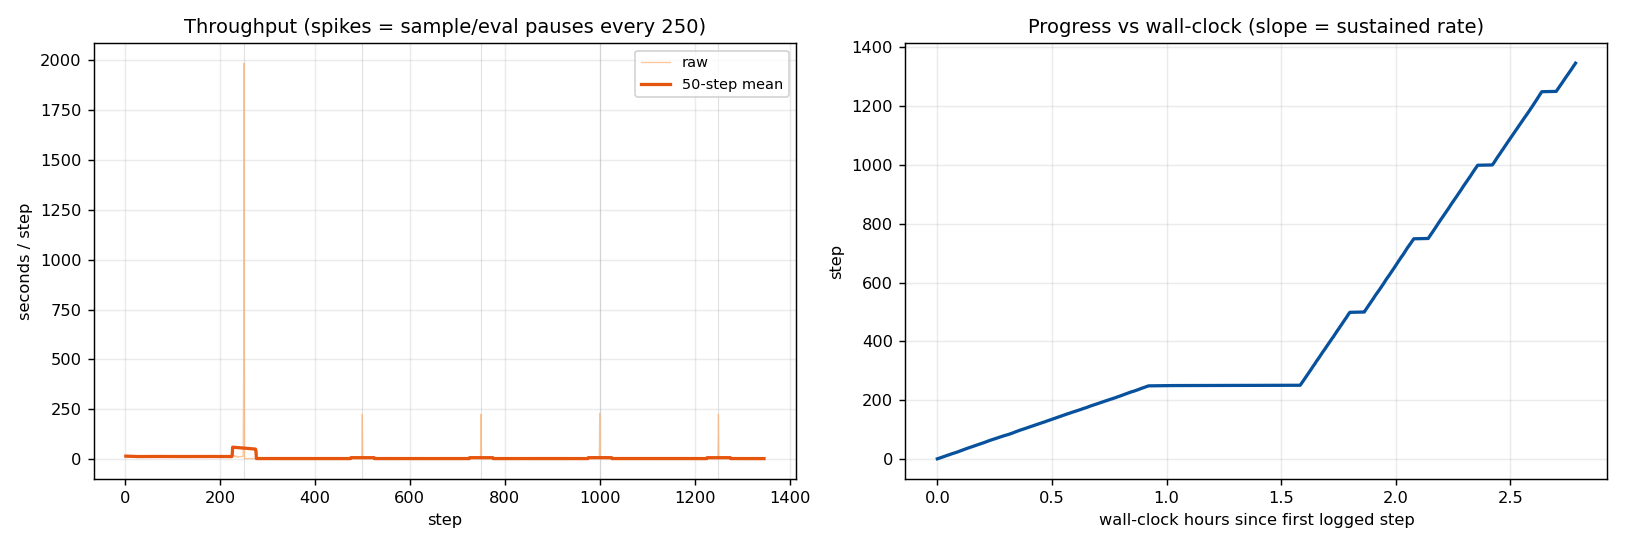
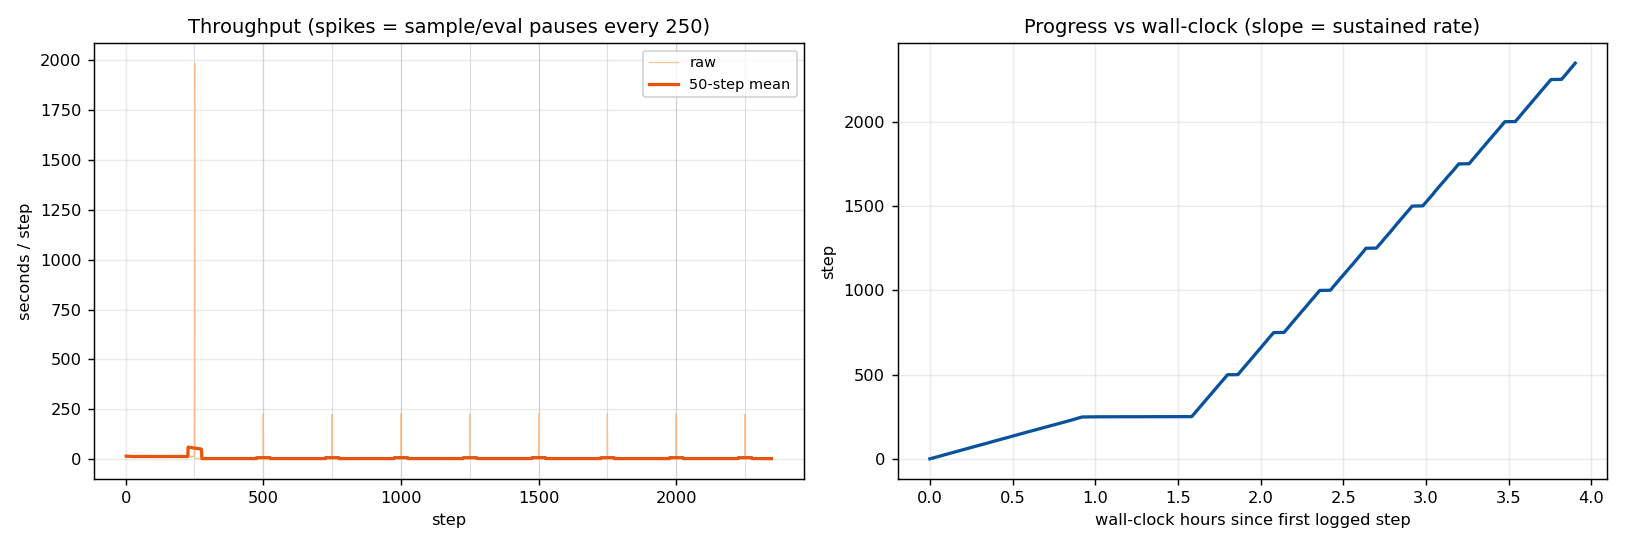
Update training analysis: ~78% snapshot, ar_kl drift

diff --git a/TRAINING_ANALYSIS/ANALYSIS.md b/TRAINING_ANALYSIS/ANALYSIS.md
@@ -1,6 +1,6 @@
 # Training analysis — `akbar_arabic_rock_lora`
 
-Snapshot taken **2026-09-19 13:02 UTC** (16:02 Bahrain) at **step ~1349 / 3000 (~45%)**.
+Snapshot taken **2026-09-19 14:09 UTC** (17:09 Bahrain) at **step ~2346 / 3000 (~78%)**.
 Charts are regenerated from the live `loss_log.db` and `gpu_usage.csv` with:
 
 ```bash
@@ -12,7 +12,7 @@ python TRAINING_ANALYSIS/generate_plots.py
 > the LoRA learned the maqam.
 
 > **Cross-VM note.** This run began on an L4 (steps 1–250, whole-song) and was
-> resumed on an A100-SXM4-80GB at step 250 (now to ~1349). The loss history is
+> resumed on an A100-SXM4-80GB at step 250 (now to ~2346). The loss history is
 > continuous across the switch; the throughput/GPU panels are A100-only
 > (`gpu_usage.csv` started fresh on this VM). Steps 251–295 were re-processed on
 > the A100 after resume (they existed locally but never reached a saved
@@ -26,13 +26,13 @@ python TRAINING_ANALYSIS/generate_plots.py
 | Model | YuE2 3B int8 `convrot8`, flowmatch, batch 1 |
 | Dataset | 267 clips, 267 captions, one combined LoRA across four maqams |
 | GPU | Colab **A100-SXM4-80GB** (steps 1–250 were L4 24 GB) |
-| Steps done | **~1349 / 3000 (45.0%)** |
-| Median step time | **3.10 s/step** on A100 (p10/p90 = 2.59 / 3.72); L4 was 13.4 s/step |
+| Steps done | **~2346 / 3000 (78.2%)** |
+| Median step time | **3.10 s/step** on A100 (p10/p90 = 2.59 / 3.69), over 2079 steps; L4 was 13.4 s/step |
 | Sample tax | ~226 s (~3.8 min) per sample event, every 250 steps (L4 was ~388 s) |
 | Effective rate incl. samples | ~0.25 steps/s (~4.0 s/step amortised) |
-| ETA | **~1.8–1.9 h from snapshot → ~14:50 UTC / ~17:50 Bahrain** |
-| Checkpoints | `..._000000250/500/750/1000/1250.safetensors` — all on disk **and in GCS** (every 250, keep 12) |
-| Samples | 24 mp3s (4 prompts at steps 0, 250, 500, 750, 1000, 1250) |
+| ETA | **~45 min from snapshot → ~14:55 UTC / ~17:55 Bahrain** (incl. sample pauses at 2500/2750/3000) |
+| Checkpoints | `..._000000250` … `..._000002250.safetensors` (9) — all on disk **and in GCS** (every 250, keep 12) |
+| Samples | 40 mp3s (4 prompts at steps 0, 250, 500, 750, 1000, 1250, 1500, 1750, 2000, 2250) |
 
 ## Charts
 
@@ -59,70 +59,84 @@ python TRAINING_ANALYSIS/generate_plots.py
 | 1001–1100 | 5.614 | 4.473 | 1.157 | 4.704 |
 | 1101–1200 | 5.574 | 4.442 | 1.180 | 4.678 |
 | 1201–1300 | 5.576 | 4.443 | 1.160 | 4.675 |
-| 1301–1400 | 5.517 | 4.369 | 1.200 | 4.609 |
+| 1301–1400 | 5.503 | 4.366 | 1.208 | 4.608 |
+| 1401–1500 | 5.536 | 4.409 | 1.194 | 4.648 |
+| 1501–1600 | 5.509 | 4.372 | 1.215 | 4.615 |
+| 1601–1700 | 5.491 | 4.340 | 1.241 | 4.588 |
+| 1701–1800 | 5.460 | 4.313 | 1.252 | 4.563 |
+| 1801–1900 | 5.446 | 4.291 | 1.278 | 4.547 |
+| 1901–2000 | 5.409 | 4.252 | 1.280 | 4.508 |
+| 2001–2100 | 5.426 | 4.272 | 1.273 | 4.526 |
+| 2101–2200 | 5.369 | 4.198 | 1.325 | 4.463 |
+| 2201–2300 | 5.352 | 4.197 | 1.321 | 4.461 |
+| 2301–2400 | 5.388 | 4.200 | 1.333 | 4.466 |
 
 Confirmed metric keys: `additional_model_loss`, `learning_rate`, `loss/ar_ce`,
 `loss/ar_kl`, `loss/loss`. There is **no** `nar_flow` key (see `DECISIONS.md`).
 
-Headline first-50 vs last-50 (from `generate_plots.py`): `loss/loss` 6.49 → 5.52
-(**−0.97**), `loss/ar_ce` 5.45 → 4.38 (−1.08), `loss/ar_kl` 0.37 → 1.20 (+0.83),
-`additional_model_loss` 5.53 → 4.62 (−0.91).
+Headline first-50 vs last-50 (from `generate_plots.py`): `loss/loss` 6.49 → 5.39
+(**−1.11**), `loss/ar_ce` 5.45 → 4.20 (−1.25), `loss/ar_kl` 0.37 → 1.34 (+0.96),
+`additional_model_loss` 5.53 → 4.47 (−1.06).
 
 ## Observations
 
-1. **Healthy, monotone descent over the whole run.** `loss/loss` falls steeply
-   for the first ~100 steps, then declines slowly and steadily all the way to
-   ~5.5. Raw loss swings ~5.0–6.2 step-to-step, so only the smoothed line is
+1. **Healthy, monotone descent over the whole run.** `loss/loss` fell steeply
+   for the first ~100 steps, then declined slowly and steadily all the way to
+   ~5.39. Raw loss swings ~4.7–6.2 step-to-step, so only the smoothed line is
    meaningful — normal at batch size 1.
 2. **`loss/ar_ce` is the whole story.** It dominates `loss/loss` and tracks it
-   almost one-to-one (5.23 → 4.37). This is the autoregressive cross-entropy —
+   almost one-to-one (5.23 → 4.20). This is the autoregressive cross-entropy —
    the AR expert doing the composition/arrangement learning that
    `train_window_frames: 0` was set to enable.
-3. **`loss/ar_kl` rose then plateaued.** It starts near 0, climbs for ~300 steps,
-   and has sat in the 1.16–1.20 band from step ~900 through 1400. The **plateau
-   is the reassuring part**: the adapted AR distribution is drifting from the
-   base but is bounded, not diverging. A renewed climb would be the early warning.
-4. **Diminishing returns are showing.** Per-100-mean improvement has shrunk from
-   −0.38 (100→200) to roughly −0.05 (1200→1300). At constant LR 1e-4 this is the
-   expected approach to a plateau on a small, highly repetitive dataset. It does
-   not mean the run is broken — it means sample quality is the better signal
-   from here, not the loss.
+3. **`loss/ar_kl` is no longer flat — it is creeping up again.** It rose to a
+   ~1.16–1.20 band by step ~900–1300, then resumed a slow climb: 1.28 by
+   1801–1900, 1.32 by 2101–2200, **1.33 by 2301–2400**. This is still a gentle
+   drift, not a spike or a divergence, but the earlier "plateau" reading no
+   longer holds. Treat a continued/accelerating rise as the early warning to
+   watch — it measures how far the adapted AR distribution has moved from the
+   base (weight 0.2).
+4. **Diminishing returns, very clearly.** Per-100-mean improvement of `loss/loss`
+   is now within noise of zero: 1301–1400 → 2301–2400 moved only 5.50 → 5.39,
+   with several flat/noisy windows (e.g. 2301–2400 ticks *up* slightly from
+   2201–2300). At constant LR 1e-4 on a small, repetitive dataset this is the
+   expected approach to a plateau. Loss is no longer the useful signal — sample
+   quality is.
 5. **The L4→A100 resume shows as a small, benign bump.** The 201–300 mean
    (6.072) sits above 101–200 (5.904) and 301–400 (5.953). This window straddles
    the step-250 switch (L4 → A100, re-processing 250–295 after restore); the
    decline resumes cleanly afterward. Not a real regression.
-6. **A100 throughput is excellent and now well-measured.** Over 1090 post-resume
-   steps (all clip lengths), **median 3.10 s/step**, p10/p90 2.59/3.72. That is
-   **~4.3× the L4's 13.4 s/step** — above the 2–2.6× estimate in
-   `docs/GPU_L4_VS_A100.md`, which was derived from peak-spec ratios rather than a
-   measured A100 run. This resolves the earlier "does it hold on the longest
-   clips?" caution: it does.
+6. **A100 throughput is excellent and now very well-measured.** Over 2079
+   post-resume steps (all clip lengths), **median 3.10 s/step**, p10/p90
+   2.59/3.69. That is **~4.3× the L4's 13.4 s/step** — above the 2–2.6× estimate
+   in `docs/GPU_L4_VS_A100.md`, which was derived from peak-spec ratios rather
+   than a measured A100 run. The earlier "does it hold on the longest clips?"
+   caution is resolved: it does.
 7. **The sample tax is real but smaller here.** Each sample event pauses training
-   ~226 s (~3.8 min) — about 42% of the L4's ~388 s — because generation is faster
-   too. Still, over the 250-step interval it adds ~0.9 s/step amortised, which is
-   why the headline ETA (~1.9 h) is longer than the raw 3.1 s/step implies
-   (~1.4 h).
-8. **GPU is healthy with large headroom.** While training: ~100% util, **peak
-   15.25 GB of 80 GB**, ~334 W mean / 424 W max against a 400 W cap, 45–67 °C.
-   Memory was never the constraint and there is now ~65 GB free — but batch size
-   is deliberately left at 1 (`DECISIONS.md`: one variable at a time).
-9. **Everything is persisted.** Checkpoints 250–1250 are on disk and in GCS; the
+   ~226 s (~3.8 min) — about 42% of the L4's ~388 s. Over the 250-step interval
+   it adds ~0.9 s/step amortised, so the headline ETA is longer than the raw
+   3.1 s/step implies.
+8. **GPU is healthy with large headroom.** While training: ~100% util, ~15–16 GB
+   of 80 GB, ~334 W mean / ~424 W max against a 400 W cap, 45–67 °C. Memory was
+   never the constraint and there is now ~64 GB free — batch size is deliberately
+   left at 1 (`DECISIONS.md`: one variable at a time).
+9. **Everything is persisted.** Checkpoints 250–2250 are on disk and in GCS; the
    metrics db, samples, and logs are mirrored on the ~15-min backup cadence.
 
 ## Things to watch / decisions to make later
 
-- **Judge the samples, not the loss.** The 24 generated audios (steps 0/250/…/
-  1250) are the quality signal; loss has largely plateaued. The step-0 samples
-  are a useful base-model reference to A/B against the later ones.
+- **Judge the samples, not the loss.** The 40 generated audios are the quality
+  signal; loss has plateaued. Use the step-0 samples as the base-model reference
+  and listen for whether arrangement-level coherence improves across
+  500 → 1250 → 2250 (the whole point of `train_window_frames: 0`).
 - **Overfitting.** With 267 highly similar captions and no validation split,
   watch for samples that copy incidental artifacts of specific clips rather than
   generalizing the shared style — the reason rank was kept at 32
   (`DECISIONS.md`).
-- **`ar_kl`** — treat a renewed upward trend past ~1.2 as an early warning.
-- **Structure vs timbre.** The whole point of `train_window_frames: 0` is that
-  the AR loss now spans entire songs, so `ar_ce`'s long descent is the number to
-  correlate with whether generated songs hold together arrangementally — best
-  judged by ear across the 500→1250 samples.
+- **`ar_kl`** — no longer plateaued; a continued climb past ~1.35 is the early
+  warning to correlate with sample quality.
+- **End of run.** At ~78% with loss flat, the step-2500/2750/3000 samples are the
+  main reason to let it finish; consider whether a later run should lower LR or
+  add a holdout rather than add steps at this LR.
 - The ETA assumes the current sustained rate; a Colab disconnect would invalidate
   it, but auto-resume of this unchanged, approved run is permitted
   (`AGENTS.md`/`DECISIONS.md`).
